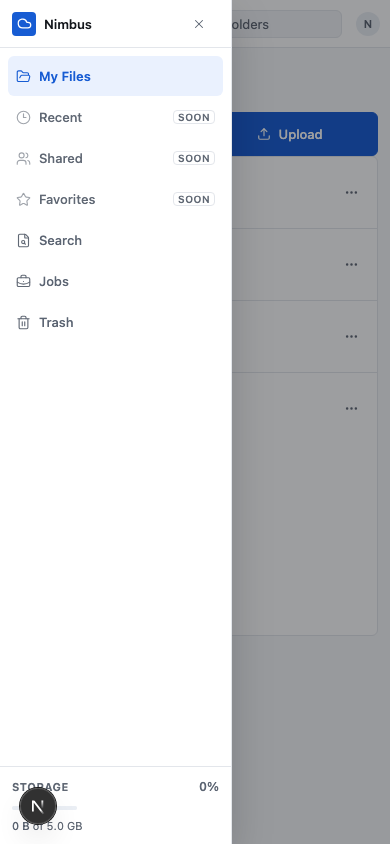
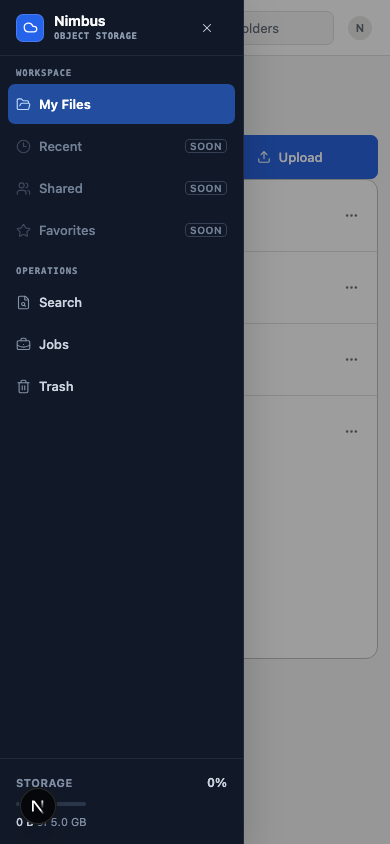
docs(readme): refresh console screenshots and fix migration count
Recapture all eight portfolio screenshots so they reflect the Aug 2
console redesign: grouped Workspace/Operations sidebar sections, the
Nimbus Object Storage branding, the "/" quick-search shortcut, and the
dark mobile navigation drawer. The prior assets predated the redesign.

Correct the status line's migration count (eight -> nine) to include the
M11 API keys migration already documented in the feature list.

diff --git a/README.md b/README.md
@@ -2,7 +2,7 @@
 
 Nimbus is a production-configurable cloud file workspace built to demonstrate storage-system engineering end to end. It combines direct-to-object-storage uploads, immutable versions, deny-by-default sharing, authorization-safe search, durable workers, and a responsive web console.
 
-**Status:** Managed web/API/data/storage integration is validated at [Nimbus Web](https://nimbus-web-psi.vercel.app) and [Nimbus API](https://nimbus-api-q8bc.onrender.com). GitHub OAuth, eight migrations, managed PostgreSQL/Redis readiness, private R2 CORS, direct browser upload, and worker-driven finalization from a local worker have passed. The permanent Render worker and remaining operational gates are still pending; this is not yet a fully validated production launch.
+**Status:** Managed web/API/data/storage integration is validated at [Nimbus Web](https://nimbus-web-psi.vercel.app) and [Nimbus API](https://nimbus-api-q8bc.onrender.com). GitHub OAuth, nine migrations, managed PostgreSQL/Redis readiness, private R2 CORS, direct browser upload, and worker-driven finalization from a local worker have passed. The permanent Render worker and remaining operational gates are still pending; this is not yet a fully validated production launch.
 
 ## Product Overview
 
